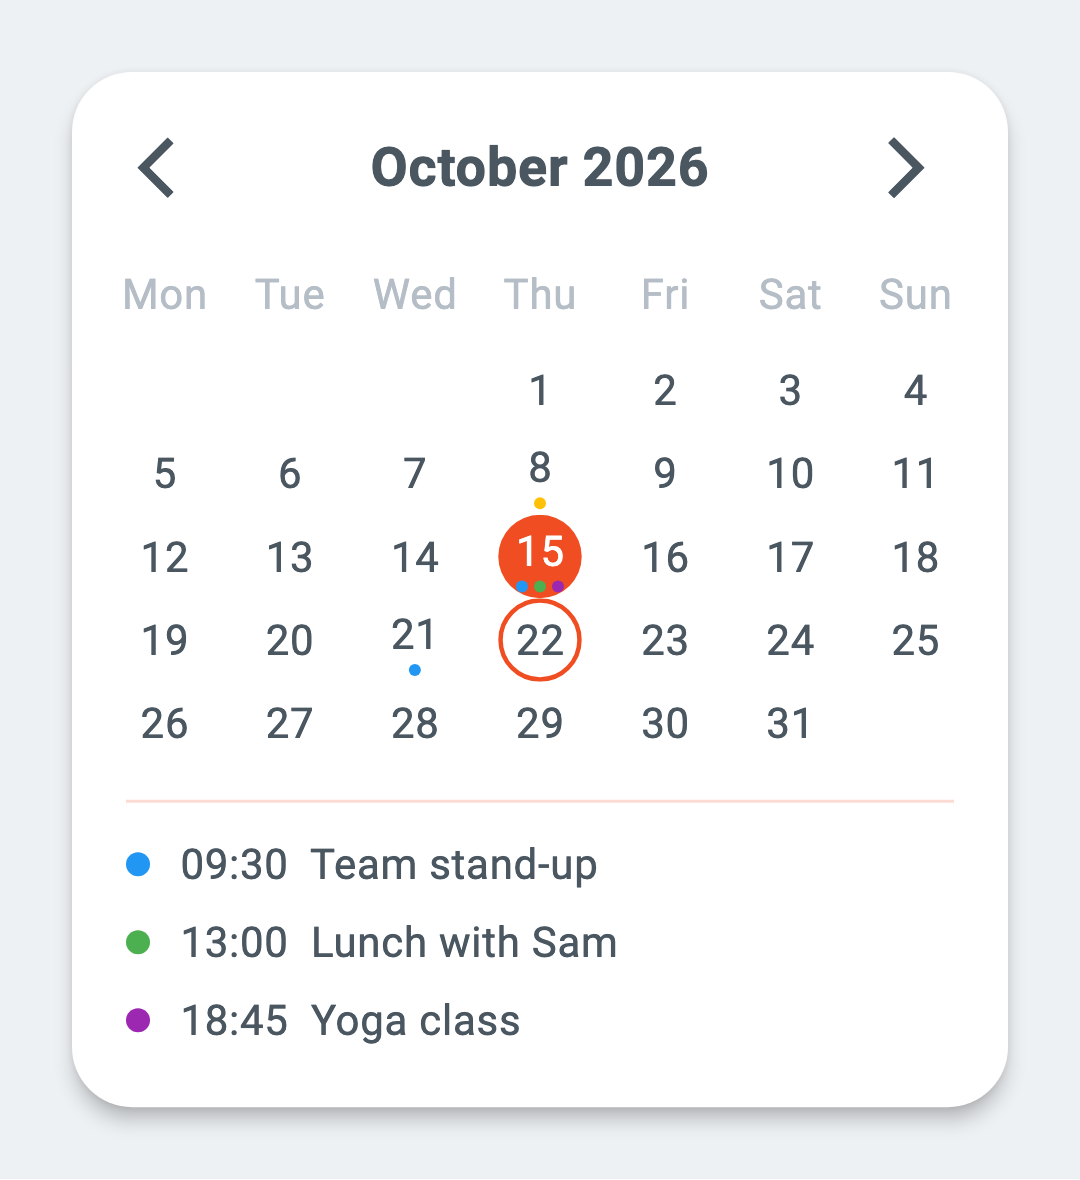
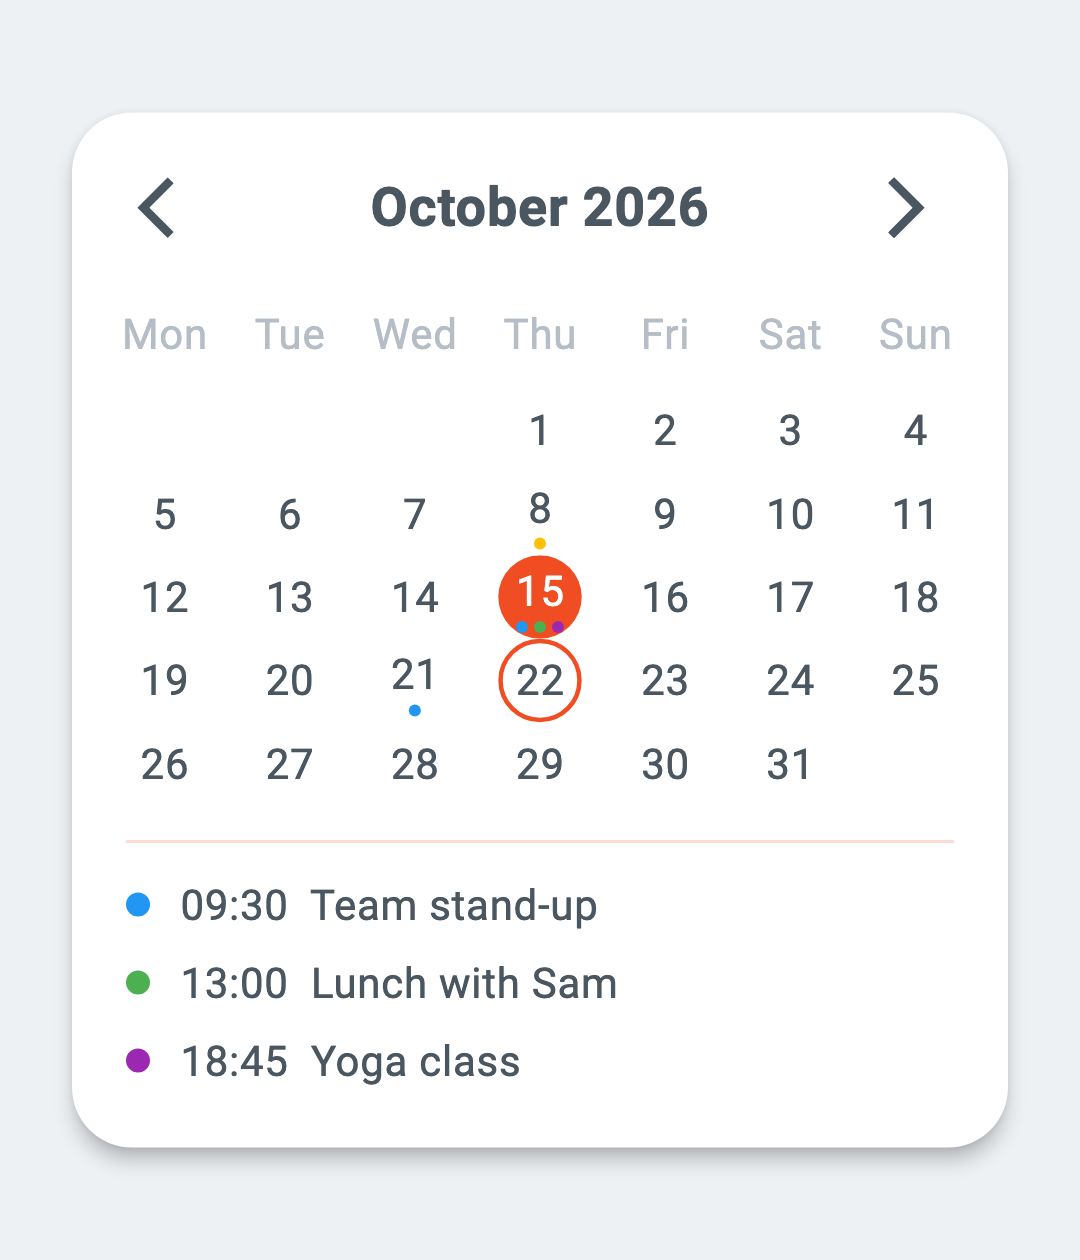
imgs

diff --git a/tool/generate_screenshots_test.dart b/tool/generate_screenshots_test.dart
@@ -38,6 +38,7 @@ Future<void> _shot(
   Widget child, {
   Color background = const Color(0xFFEEF1F4),
   double width = 360,
+  double? height = 420,
   String fontFamily = 'Roboto',
   Future<void> Function()? before,
 }) async {
@@ -59,7 +60,9 @@ Future<void> _shot(
           key: key,
           child: Container(
             width: width,
+            height: height,
             color: background,
+            alignment: height == null ? null : Alignment.center,
             padding: const EdgeInsets.all(24),
             child: child,
           ),
@@ -126,6 +129,7 @@ void main() {
         ],
       ),
       width: 800,
+      height: null, // the overview is wider and sized by its content
     );
   });
 
@@ -212,11 +216,23 @@ void main() {
     await _shot(
       tester,
       'week',
-      AwesomeCalenDart(
-        initialDate: _month,
-        calendarFormat: AwesomeCalendarFormat.week,
-        showFormatButton: true,
-        events: events,
+      Column(
+        mainAxisSize: MainAxisSize.min,
+        children: [
+          AwesomeCalenDart(
+            initialDate: _month,
+            calendarFormat: AwesomeCalendarFormat.week,
+            showFormatButton: true,
+            events: events,
+          ),
+          const SizedBox(height: 16),
+          AwesomeCalenDart(
+            initialDate: _month,
+            calendarFormat: AwesomeCalendarFormat.twoWeeks,
+            showFormatButton: true,
+            events: events,
+          ),
+        ],
       ),
     );
   });

diff --git a/README.md b/README.md
@@ -26,7 +26,7 @@ A highly customizable calendar widget for Flutter: single, multiple and range se
 
 <p align="center"><sub>
 Range selection with limits · multiple selection with adjacent days · week numbers, weekends and special dates<br>
-Week format · event list under the calendar · month and year picker<br>
+Week and two-week formats · event list under the calendar · month and year picker<br>
 Arabic (right to left, native digits) · custom theme and <code>dayBuilder</code> · dark theme with colored events
 </sub></p>
 
